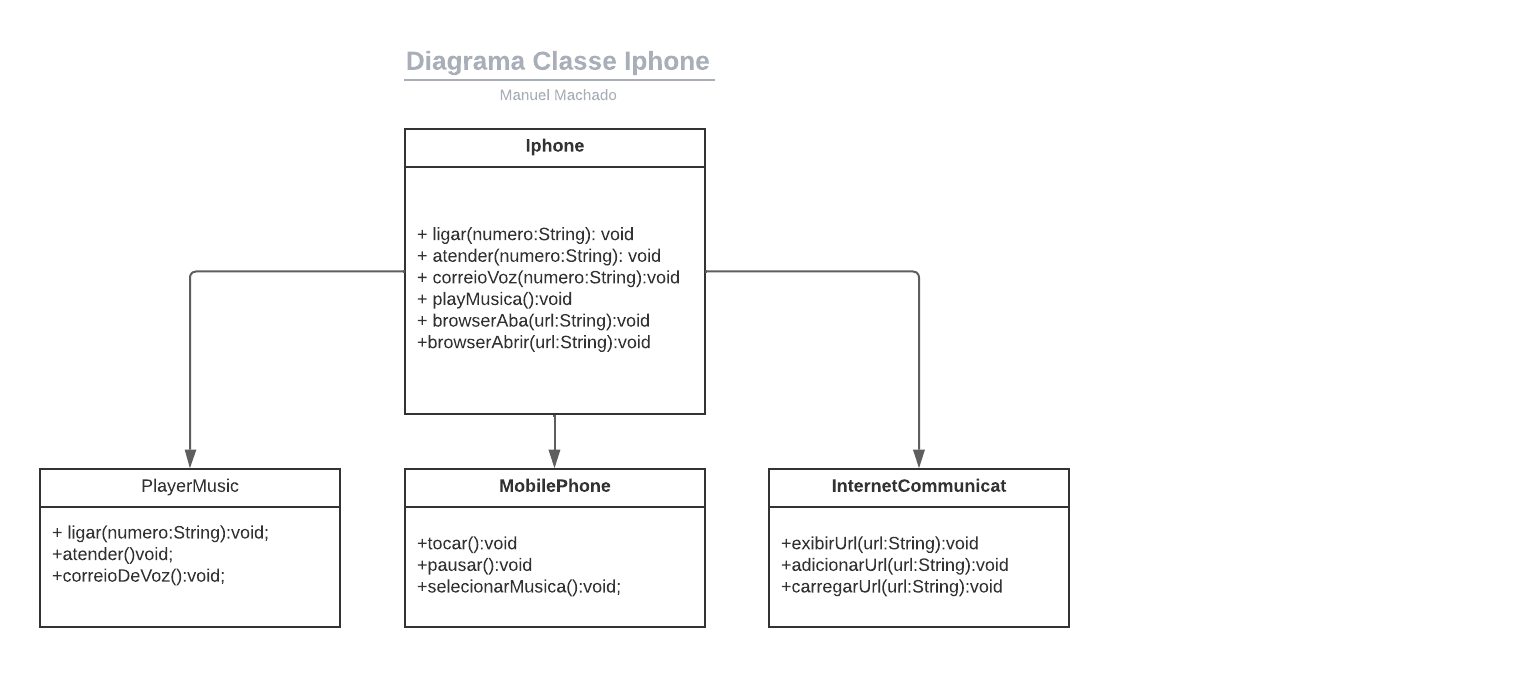
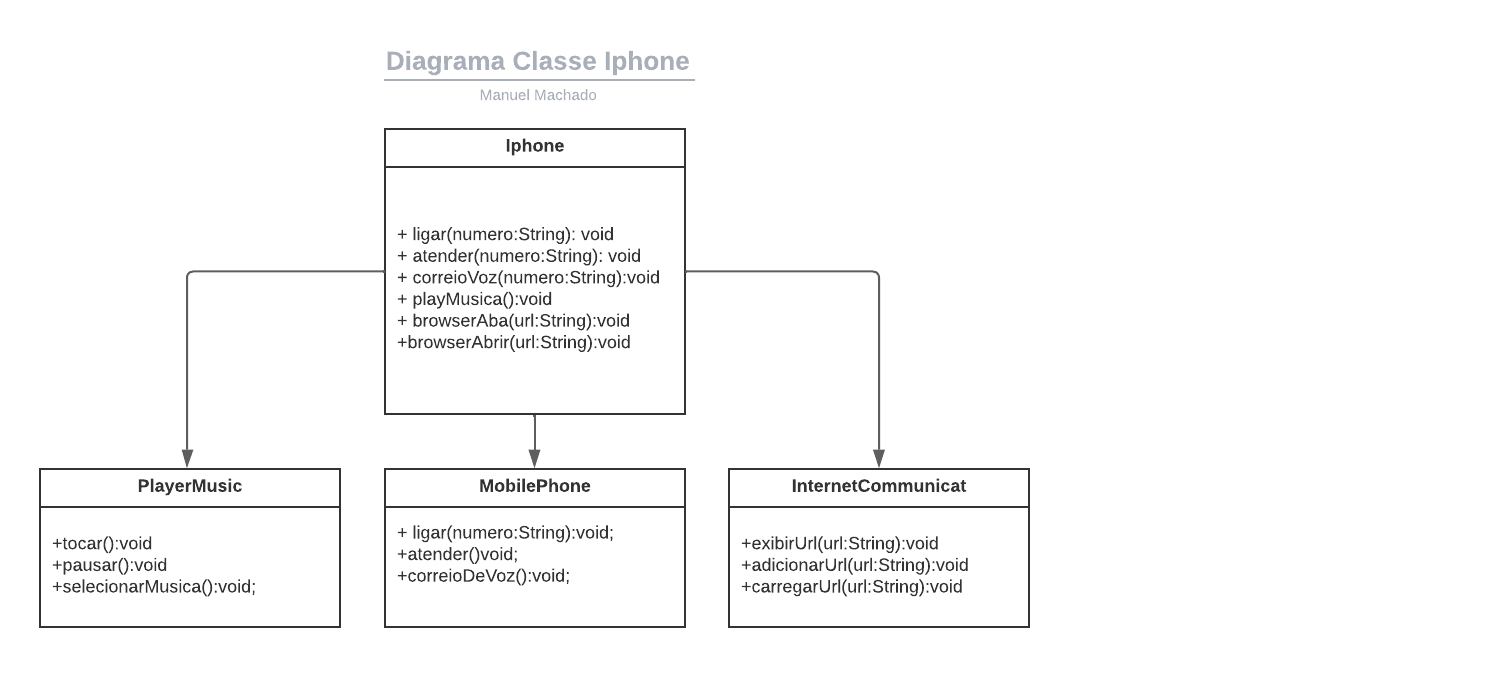
Alterando o README complemento

diff --git a/README.md b/README.md
@@ -5,5 +5,13 @@ Este projeto JAVA para mostrar o lançamento do iPhone em 2007 que marcou o iní
 ![UML](./doc/Diagrama%20Iphone.png)
 
 ## 💻  Implementação
+Nesta seção será explicada as classes da aplicação.
+### Iphone
+Está será a classe principal da aplicação nela será implementada as interfases de <kbd>PlayerMusic </kbd>, <kbd>MobilePhone</kbd> e <kbd>InternetComunnocat</kbd>.
 
-
+### PlayerMusic
+Está será a interface que controla o player com os seguintes métodos <kbd>tocar() </kbd>, <kbd>pausar()</kbd> e <kbd>selecionarMusica()</kbd>.
+### MobilePhone
+Está será a interface que controla as chamadas com os seguintes métodos <kbd>ligar() </kbd>, <kbd>atender()</kbd> e <kbd>correioDeVoz()</kbd>.
+### InternetCommunicat
+Está será a interface que controla a navegação da internet com os seguintes métodos <kbd>exibirUrl() </kbd>, <kbd>adicionarUrl()</kbd> e <kbd>carregarUrl()</kbd>.
